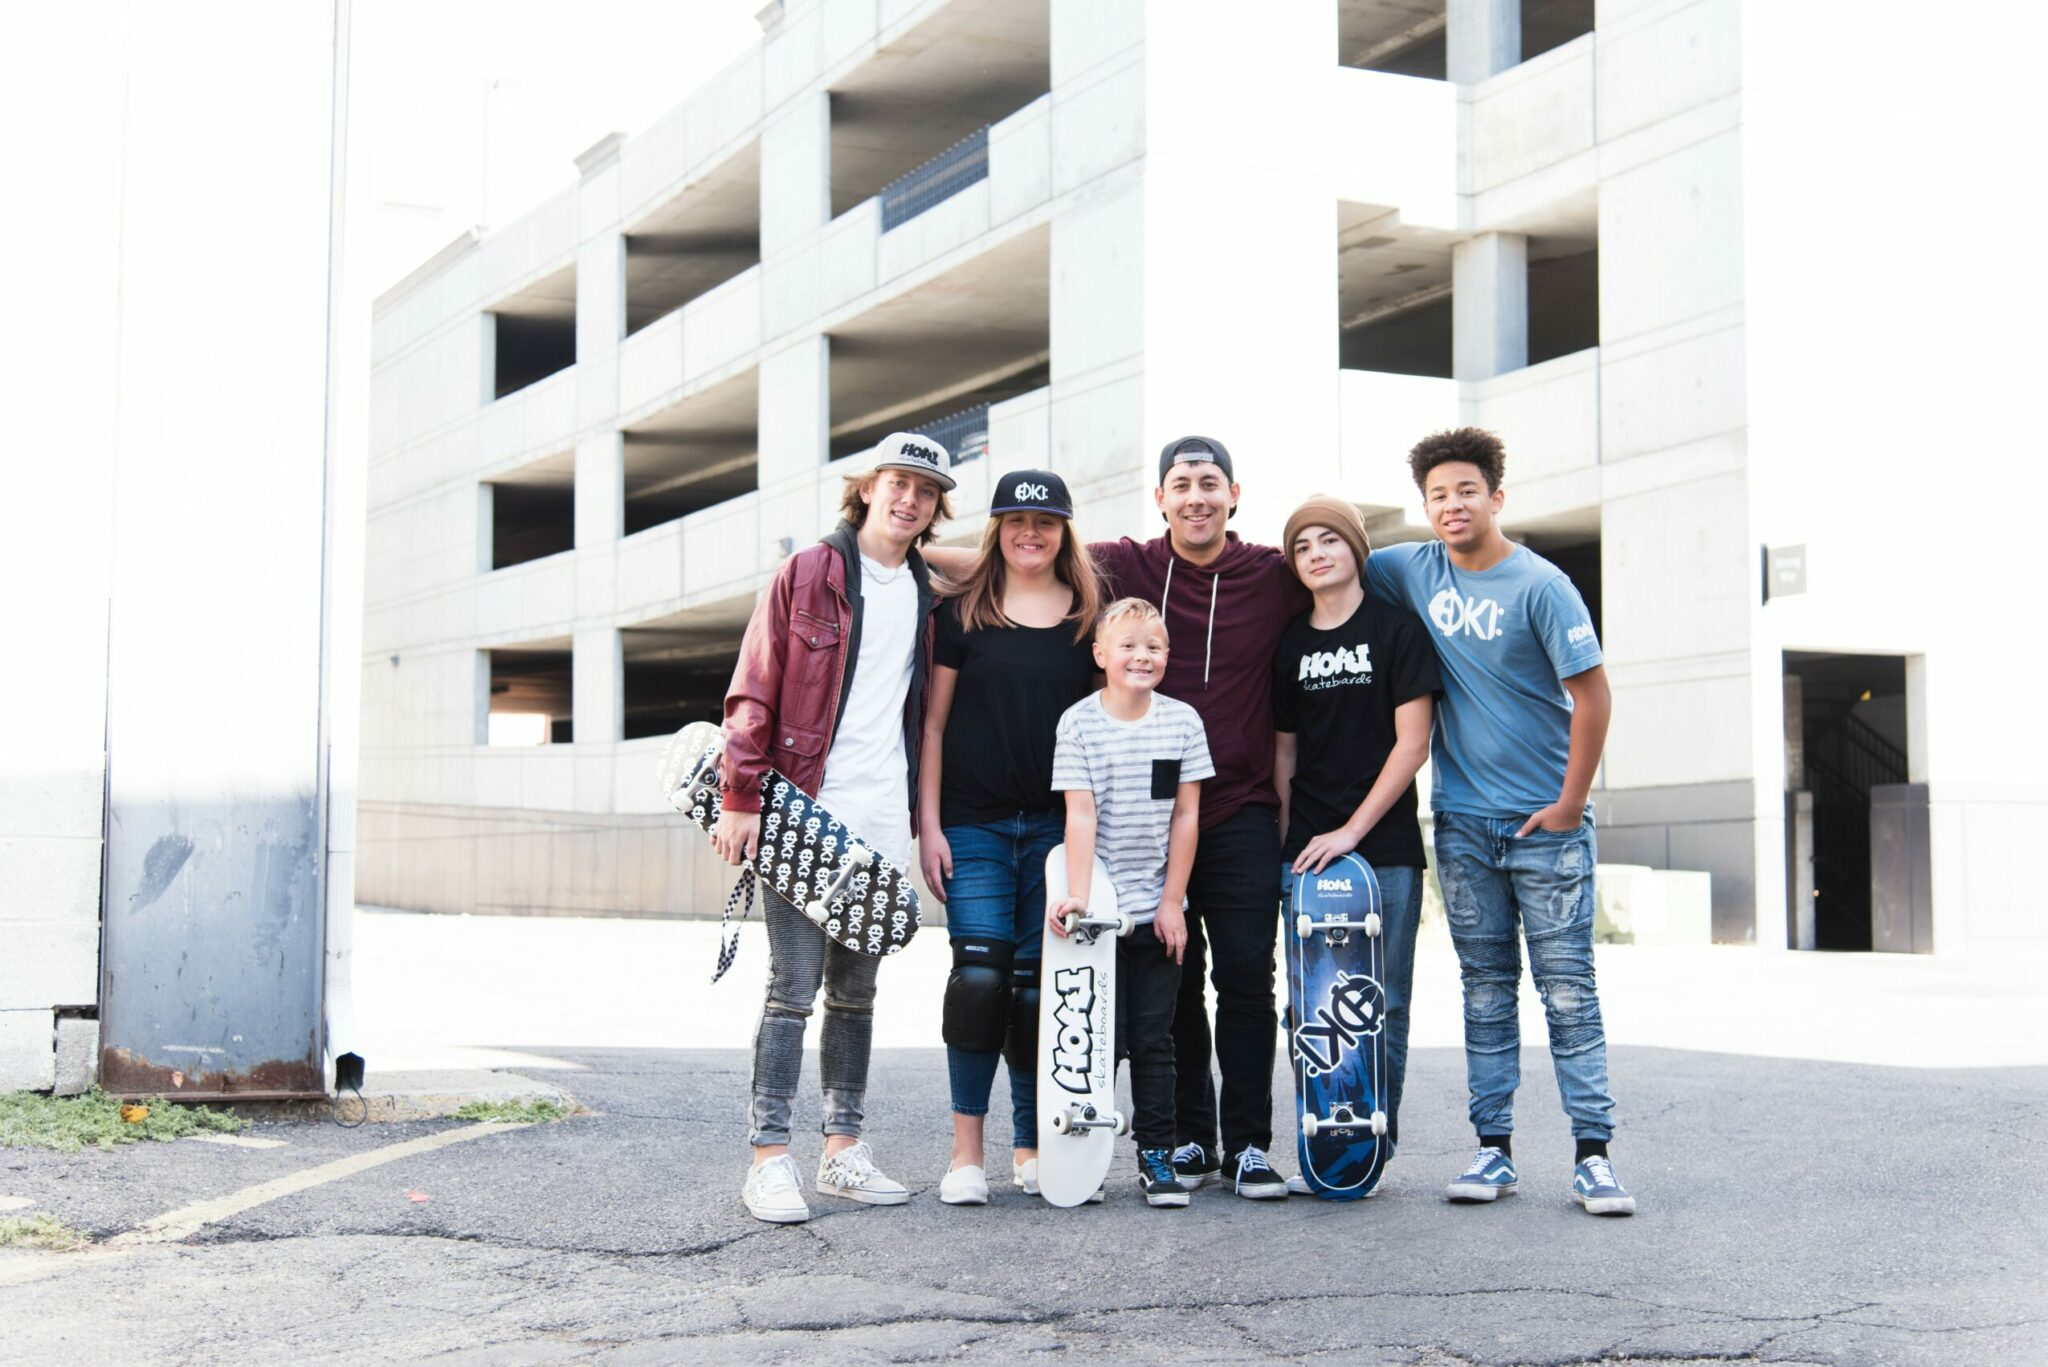
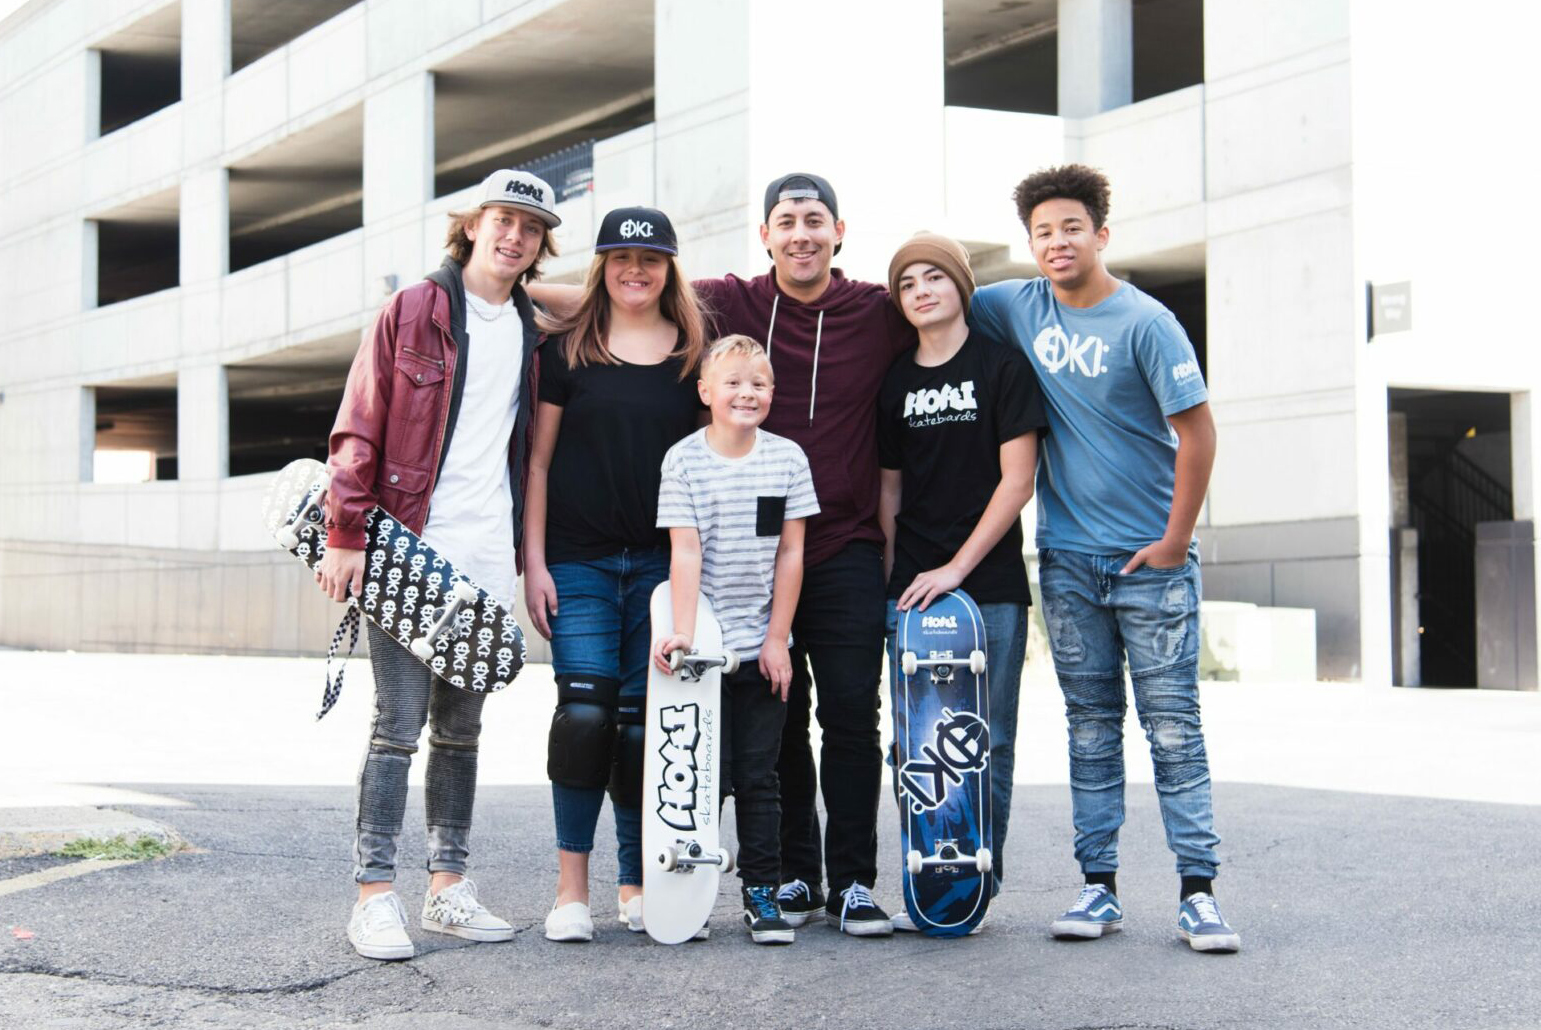
update images

diff --git a/src/pages/PassionPage/HokiSkateboards/HokiSkateboards.tsx b/src/pages/PassionPage/HokiSkateboards/HokiSkateboards.tsx
@@ -19,7 +19,7 @@ export const HokiSkateboards = () => (
 				className="main-image"
 				src={ImgHokiSkateboardsSmall}
 				srcLarge={ImgHokiSkateboards}
-				srcLargeDimensions={[600, 400]}
+				srcLargeDimensions={[1541, 1030]}
 			/>
 			<SocialMedia />
 			<Content />
